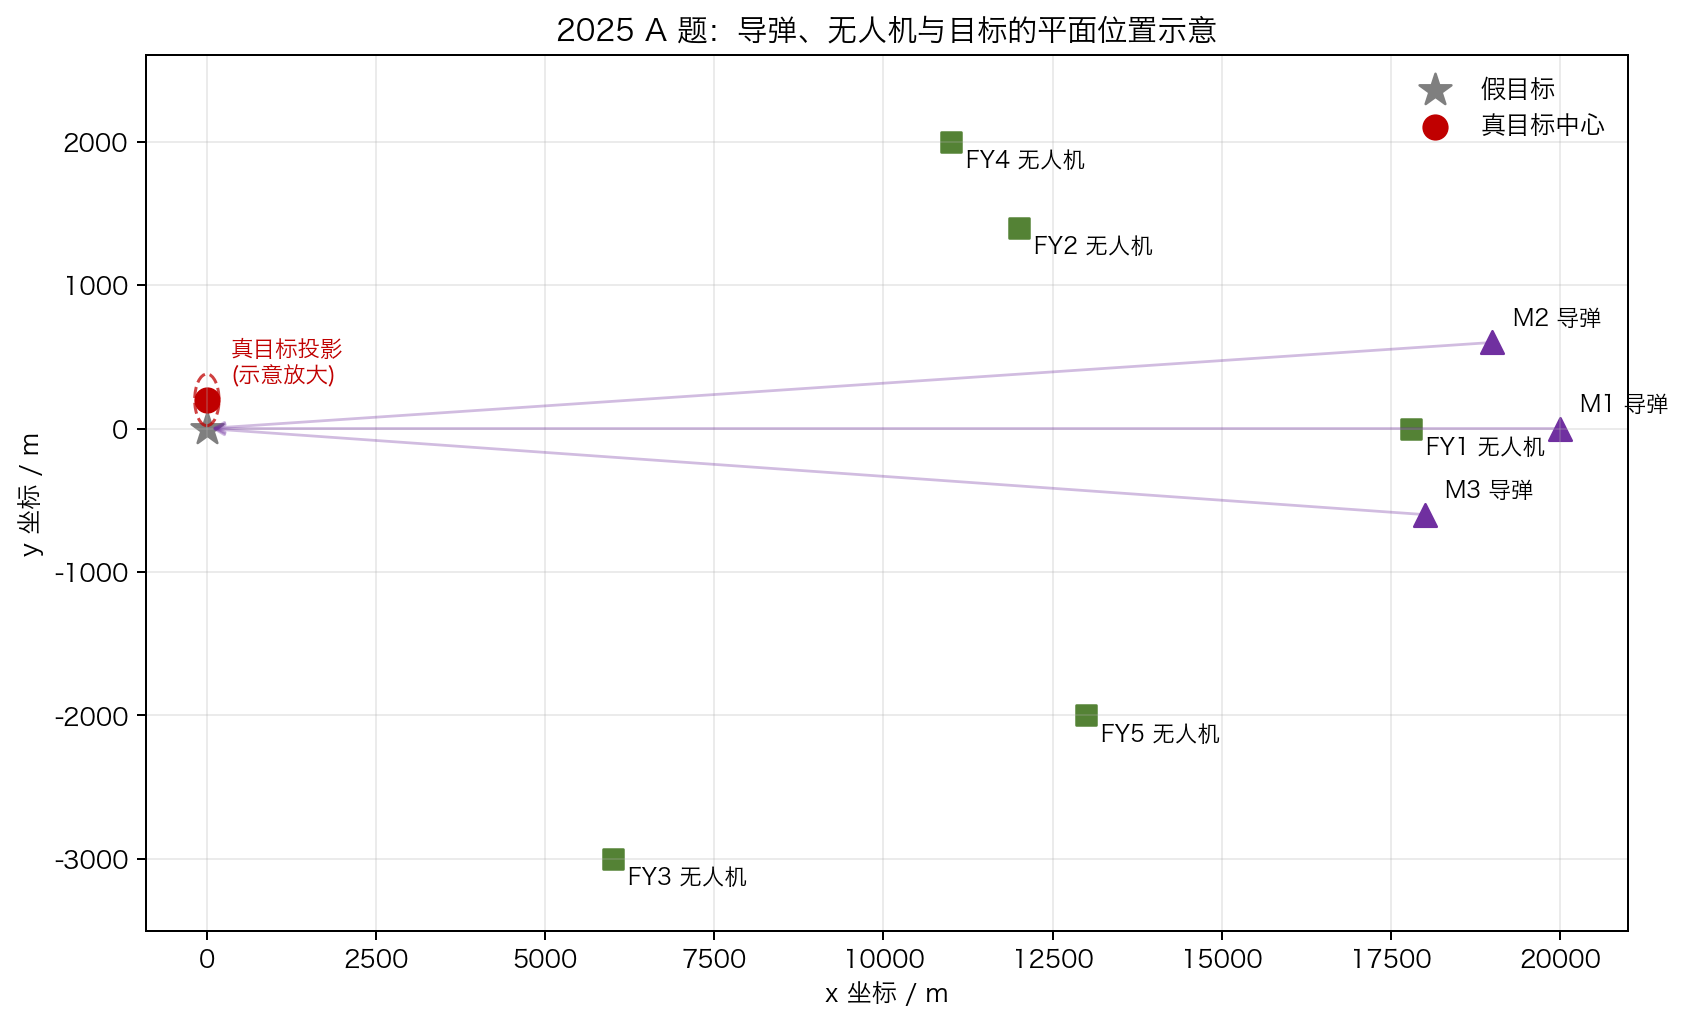
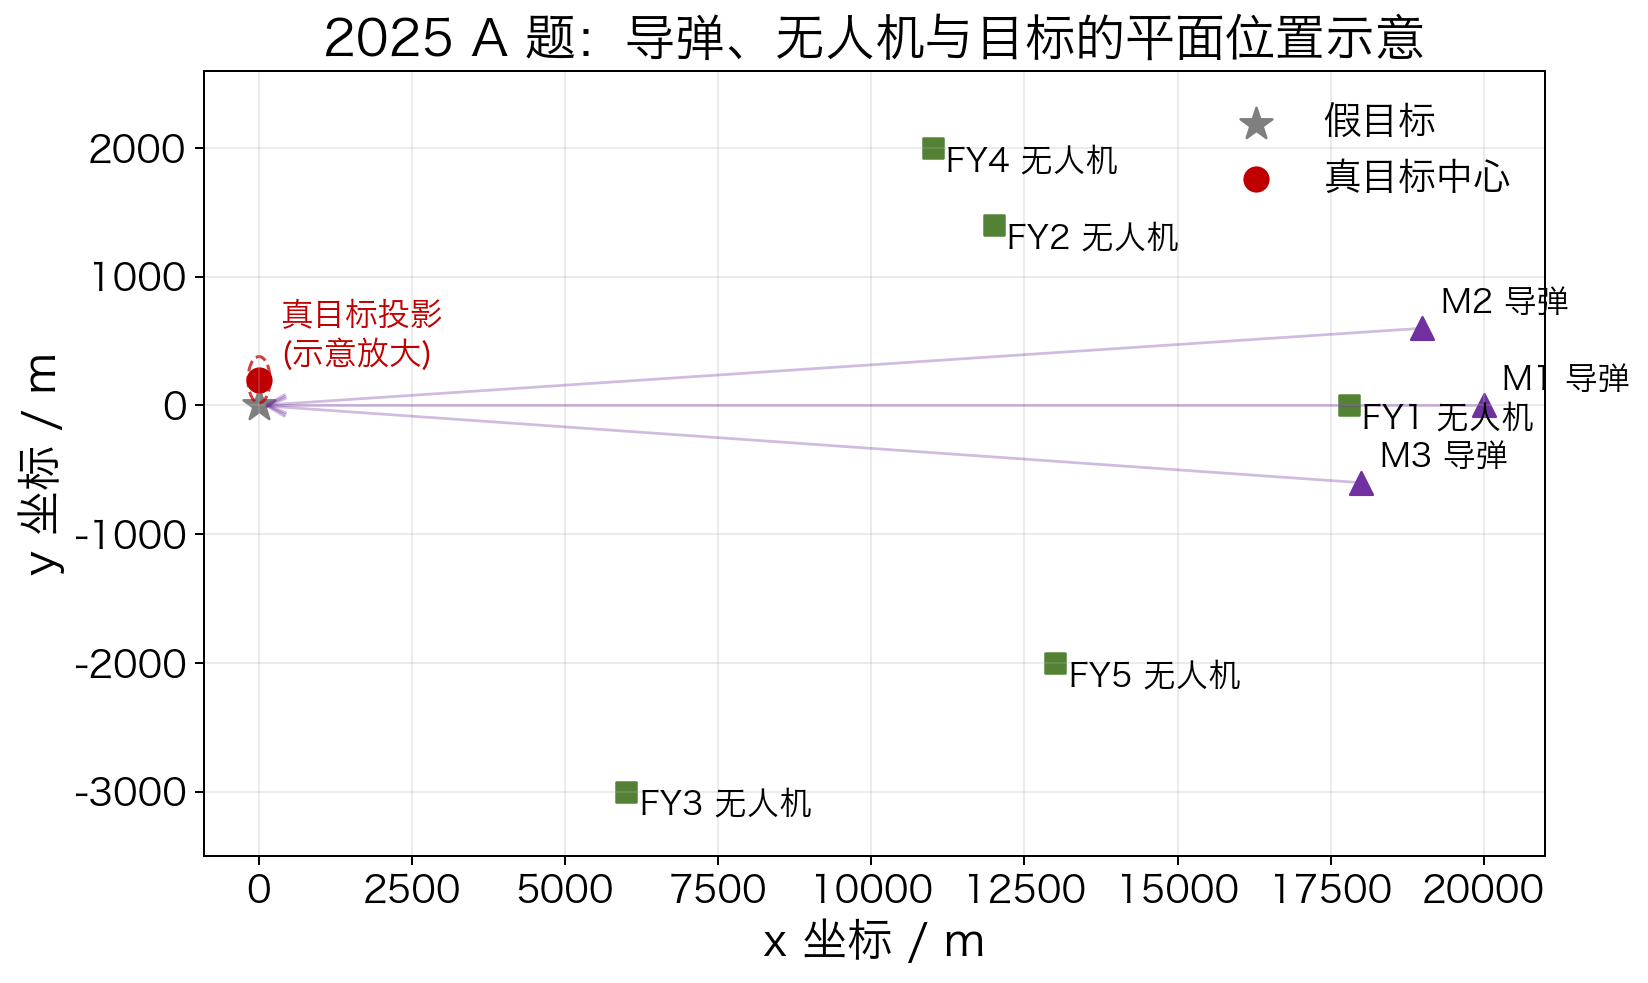
Clarify contest figure font sizing

diff --git a/examples/real_cases/cumcm_2025_a/src/make_problem_figures.py b/examples/real_cases/cumcm_2025_a/src/make_problem_figures.py
@@ -50,7 +50,7 @@ def write_overview_xy() -> None:
 
     for name, pos in MISSILES.items():
         ax.scatter(pos[0], pos[1], marker="^", s=82, color="#7030a0")
-        ax.text(pos[0] + 300, pos[1] + 120, f"{name} 导弹", fontsize=9)
+        ax.text(pos[0] + 300, pos[1] + 120, f"{name} 导弹", fontsize=13)
         ax.annotate(
             "",
             xy=(DECOY[0], DECOY[1]),
@@ -60,7 +60,7 @@ def write_overview_xy() -> None:
 
     for name, pos in UAVS.items():
         ax.scatter(pos[0], pos[1], marker="s", s=58, color="#548235")
-        ax.text(pos[0] + 220, pos[1] - 180, f"{name} 无人机", fontsize=9)
+        ax.text(pos[0] + 220, pos[1] - 180, f"{name} 无人机", fontsize=13)
 
     ax.add_patch(
         patches.Circle(
@@ -73,7 +73,7 @@ def write_overview_xy() -> None:
             alpha=0.75,
         )
     )
-    ax.text(350, 320, "真目标投影\n(示意放大)", fontsize=9, color="#c00000")
+    ax.text(350, 320, "真目标投影\n(示意放大)", fontsize=13, color="#c00000")
 
     ax.set_title("2025 A 题：导弹、无人机与目标的平面位置示意")
     ax.set_xlabel("x 坐标 / m")
@@ -92,24 +92,24 @@ def write_question_scope() -> None:
     FIGURE_DIR.mkdir(parents=True, exist_ok=True)
 
     rows = [
-        ["问题一", "FY1", "1 枚", "M1", "给定策略，计算遮蔽时长"],
-        ["问题二", "FY1", "1 枚", "M1", "优化方向、速度、投放点、起爆点"],
-        ["问题三", "FY1", "3 枚", "M1", "多弹协同，写入 result1.xlsx"],
-        ["问题四", "FY1-FY3", "各 1 枚", "M1", "多机协同，写入 result2.xlsx"],
-        ["问题五", "FY1-FY5", "每机至多 3 枚", "M1-M3", "多机多弹多导弹，写入 result3.xlsx"],
+        ["问题一", "FY1", "1 枚", "M1", "给定策略\n计算遮蔽时长"],
+        ["问题二", "FY1", "1 枚", "M1", "优化方向/速度\n投放点/起爆点"],
+        ["问题三", "FY1", "3 枚", "M1", "多弹协同\n写入 result1.xlsx"],
+        ["问题四", "FY1-FY3", "各 1 枚", "M1", "多机协同\n写入 result2.xlsx"],
+        ["问题五", "FY1-FY5", "每机至多 3 枚", "M1-M3", "多机多弹多导弹\n写入 result3.xlsx"],
     ]
     columns = ["子问题", "可用无人机", "烟幕弹数量", "干扰对象", "核心输出"]
 
-    fig, ax = plt.subplots(figsize=(10.5, 4.6), dpi=180)
+    fig, ax = plt.subplots(figsize=(12, 5.2), dpi=180)
     ax.axis("off")
     table = ax.table(
         cellText=rows,
         colLabels=columns,
         cellLoc="center",
-        bbox=[0.01, 0.08, 0.98, 0.74],
+        bbox=[0.02, 0.06, 0.96, 0.76],
     )
     table.auto_set_font_size(False)
-    table.set_fontsize(9)
+    table.set_fontsize(13)
     table.scale(1.0, 1.55)
 
     for (row, _col), cell in table.get_celld().items():

diff --git a/examples/real_cases/cumcm_2025_a/src/plot_utils.py b/examples/real_cases/cumcm_2025_a/src/plot_utils.py
@@ -18,10 +18,25 @@ CHINESE_FONT_CANDIDATES = [
 ]
 
 
-def setup_chinese_plot() -> None:
-    """Configure matplotlib so contest figures prefer Chinese labels."""
+def setup_chinese_plot(base_font_size: int = 18) -> None:
+    """Configure matplotlib so paper-inserted figures remain readable.
+
+    The source figure is usually scaled down when inserted into a paper, so the
+    source font size should be larger than body text. After insertion, labels
+    should look close to body text, with titles slightly larger.
+    """
     installed = {font.name for font in font_manager.fontManager.ttflist}
     selected = next((font for font in CHINESE_FONT_CANDIDATES if font in installed), "DejaVu Sans")
-    plt.rcParams["font.sans-serif"] = [selected, "DejaVu Sans"]
-    plt.rcParams["axes.unicode_minus"] = False
-    plt.rcParams["figure.dpi"] = 180
+    plt.rcParams.update(
+        {
+            "font.sans-serif": [selected, "DejaVu Sans"],
+            "axes.unicode_minus": False,
+            "figure.dpi": 180,
+            "font.size": base_font_size,
+            "axes.titlesize": base_font_size + 2,
+            "axes.labelsize": base_font_size,
+            "xtick.labelsize": base_font_size - 3,
+            "ytick.labelsize": base_font_size - 3,
+            "legend.fontsize": base_font_size - 3,
+        }
+    )

diff --git a/examples/real_cases/cumcm_2025_a/src/solve_q2.py b/examples/real_cases/cumcm_2025_a/src/solve_q2.py
@@ -306,7 +306,7 @@ def write_figure(decision: np.ndarray, intervals: list[tuple[float, float]]) -> 
     axes[0].set_xlabel("时间 / s")
     axes[0].set_ylabel("距离 / m")
     axes[0].set_title("问题二：搜索得到的遮蔽区间")
-    axes[0].legend(frameon=False, fontsize=8)
+    axes[0].legend(frameon=False)
     axes[0].grid(alpha=0.25)
 
     axes[1].plot(missile_points[:, 0], missile_points[:, 2], color="#7030a0", linewidth=1.5, label="M1 轨迹")
@@ -316,7 +316,7 @@ def write_figure(decision: np.ndarray, intervals: list[tuple[float, float]]) -> 
     axes[1].set_xlabel("x 坐标 / m")
     axes[1].set_ylabel("z 坐标 / m")
     axes[1].set_title("侧视几何关系")
-    axes[1].legend(frameon=False, fontsize=8)
+    axes[1].legend(frameon=False)
     axes[1].grid(alpha=0.25)
 
     fig.tight_layout()

diff --git a/examples/real_cases/cumcm_2025_a/src/solve_q1.py b/examples/real_cases/cumcm_2025_a/src/solve_q1.py
@@ -198,7 +198,7 @@ def write_figure(intervals: list[tuple[float, float]]) -> None:
     axes[0].set_xlabel("时间 / s")
     axes[0].set_ylabel("距离 / m")
     axes[0].set_title("问题一：有效遮蔽区间")
-    axes[0].legend(frameon=False, fontsize=8)
+    axes[0].legend(frameon=False)
     axes[0].grid(alpha=0.25)
 
     axes[1].plot(missile_points[:, 0], missile_points[:, 2], color="#7030a0", linewidth=1.5, label="M1 轨迹")
@@ -208,7 +208,7 @@ def write_figure(intervals: list[tuple[float, float]]) -> None:
     axes[1].set_xlabel("x 坐标 / m")
     axes[1].set_ylabel("z 坐标 / m")
     axes[1].set_title("侧视几何关系")
-    axes[1].legend(frameon=False, fontsize=8)
+    axes[1].legend(frameon=False)
     axes[1].grid(alpha=0.25)
 
     fig.tight_layout()

diff --git a/references/figure-standards.md b/references/figure-standards.md
@@ -17,6 +17,10 @@ For SCI/Nature/PRL-style publication graphics, read `references/figure-standards
   file names, algorithm names, or standard units.
 - Axis labels must include units when variables have units.
 - The figure must be readable at normal paper size.
+- Source-figure font sizes should usually be larger than body text because
+  figures are scaled down in the paper. After insertion, axis labels and legends
+  should be close to body-text size, tick labels should remain clearly readable,
+  and the figure title may be slightly larger than body text.
 - Do not use a figure when a compact table answers the question more clearly.
 
 ## Recommended Figure Types
@@ -77,5 +81,6 @@ Before final handoff:
 - legend does not cover data;
 - long category names are horizontal or wrapped;
 - units and sample ranges are visible;
-- figure text is close to body-text size after insertion;
+- figure text is close to body-text size after insertion, not visibly smaller
+  than the surrounding paragraph;
 - paper statements do not overclaim beyond what the figure shows.
